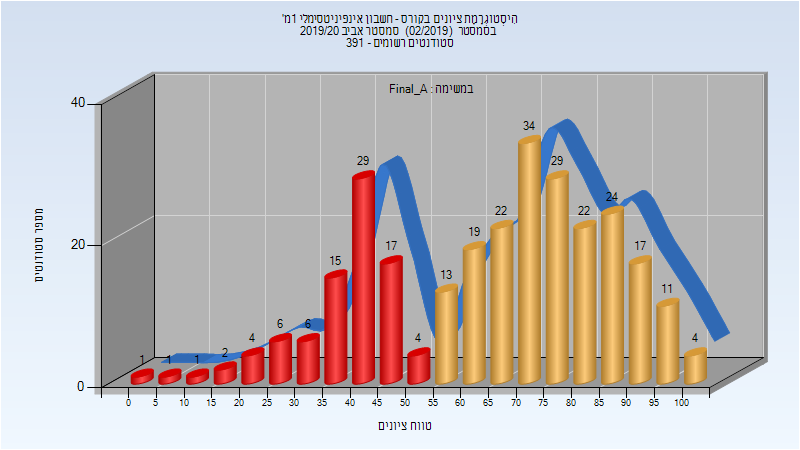
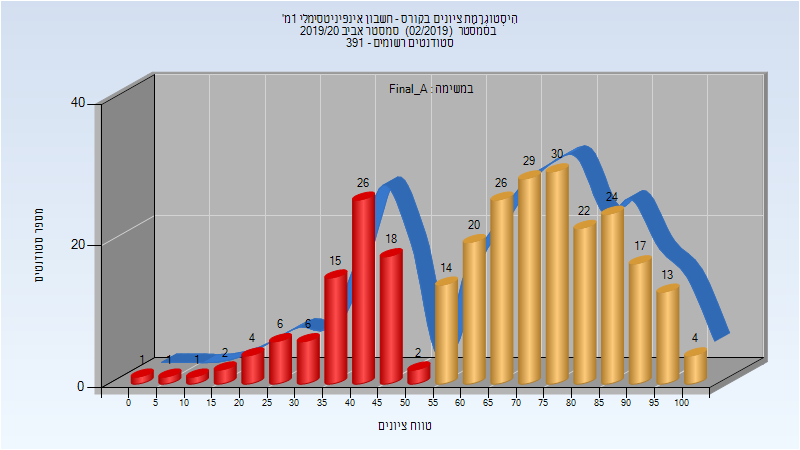
Deploy michael-maltsev/technion-histograms to github.com/michael-maltsev/technion-histograms.git:gh-pages

diff --git a/104031/index.html b/104031/index.html
@@ -2005,7 +2005,7 @@
 <td>63</td>
 <td>0</td>
 <td>100</td>
-<td>61.758</td>
+<td>62.16</td>
 <td>64</td>
 </tr>
 </tbody>
@@ -2027,12 +2027,12 @@
 <tbody>
 <tr>
 <td>281</td>
-<td>195/86</td>
-<td>69</td>
+<td>199/82</td>
+<td>71</td>
 <td>3</td>
 <td>100</td>
-<td>65.082</td>
-<td>70</td>
+<td>65.47</td>
+<td>69</td>
 </tr>
 </tbody>
 </table>

diff --git a/104031/README.md b/104031/README.md
@@ -625,7 +625,7 @@
 
 | סטודנטים | עברו/נכשלו | אחוז עוברים | ציון מינימלי | ציון מקסימלי | ממוצע | חציון |
 | ---- | ---- | ---- | ---- | ---- | ---- | ---- |
-| 281 | 176/105 | 63 | 0 | 100 | 61.758 | 64 |
+| 281 | 176/105 | 63 | 0 | 100 | 62.16 | 64 |
 
 ### סופי מועד א'
 
@@ -633,5 +633,5 @@
 
 | סטודנטים | עברו/נכשלו | אחוז עוברים | ציון מינימלי | ציון מקסימלי | ממוצע | חציון |
 | ---- | ---- | ---- | ---- | ---- | ---- | ---- |
-| 281 | 195/86 | 69 | 3 | 100 | 65.082 | 70 |
+| 281 | 199/82 | 71 | 3 | 100 | 65.47 | 69 |
 
